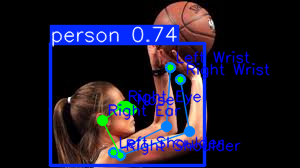
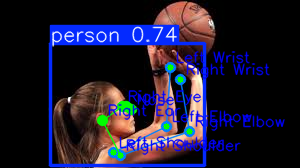
added the todo for myself

Changed region(s): [[0.54, 0.6548, 0.96, 0.8036]]

diff --git a/image_analyzer.py b/image_analyzer.py
@@ -5,6 +5,15 @@ import tkinter as tk
 from tkinter import filedialog
 from pose_detector import find_pose, label_keypoints
 
+
+KEYPOINT_NAMES = [
+    "Nose", "Left Eye", "Right Eye", "Left Ear", "Right Ear",
+    "Left Shoulder", "Right Shoulder", "Left Elbow", "Right Elbow",
+    "Left Wrist", "Right Wrist", "Left Hip", "Right Hip",
+    "Left Knee", "Right Knee", "Left Ankle", "Right Ankle"
+]
+
+
 def select_image_file():
     """Opens a file dialog for the user to select an image file."""
     root = tk.Tk()

diff --git a/TODO.md b/TODO.md
@@ -1,0 +1,33 @@
+# Project Files TODO
+
+This file provides an overview of all files and directories in the project. You can use it as a checklist to review or work on different components.
+
+### Application & Logic Files
+- [ ] `app.py`: The Flask web server that runs your web application. It handles receiving video from the browser, processing it, and sending it back.
+- [ ] `main.py`: The original script that runs real-time pose estimation from your computer's webcam and displays it in an OpenCV window.
+- [ ] `video_analyzer.py`: A script that processes a local video file for pose estimation and saves the output as a new video.
+- [ ] `image_analyzer.py`: A script that processes a local image file for pose estimation and saves the output as a new image.
+- [ ] `ball_tracker.py`: A script specifically for tracking a basketball in a video file and saving the output.
+- [ ] `pose_detector.py`: A core module containing the main functions for finding poses and labeling keypoints. This is used by all the other analysis scripts.
+
+### Web Files
+- [.] `templates/index.html`: The HTML file that creates the structure and layout of your web application's front end.
+
+### Model & Data Files
+- [ ] `yolov8n-pose.pt`: The pre-trained YOLOv8 model file used for pose estimation.
+- [ ] `yolov8n.pt`: The pre-trained YOLOv8 model file used for general object detection (like in `ball_tracker.py`).
+- [ ] `basketball.mp4`: A sample video file used for testing.
+
+### Project & Documentation
+- [ ] `README.md`: The documentation file for your project, which includes setup and usage instructions.
+- [ ] `requirements.txt`: A file listing the Python libraries needed to run your project.
+- [ ] `.gitignore`: A file that tells Git which files and folders to ignore.
+
+### Directories
+- [ ] `output/`: The folder where processed videos from `ball_tracker.py` are saved.
+- [ ] `static/`: A folder for static assets like your `example_output.gif`.
+- [ ] `templates/`: The folder where Flask looks for HTML files.
+- [ ] `.venv/`: The directory for your Python virtual environment.
+- [ ] `__pycache__/`: A folder where Python stores compiled bytecode to speed up execution.
+- [ ] `.git/`: Directory containing all the necessary files for the Git repository.
+- [ ] `Resources/`: Directory for project resources.
